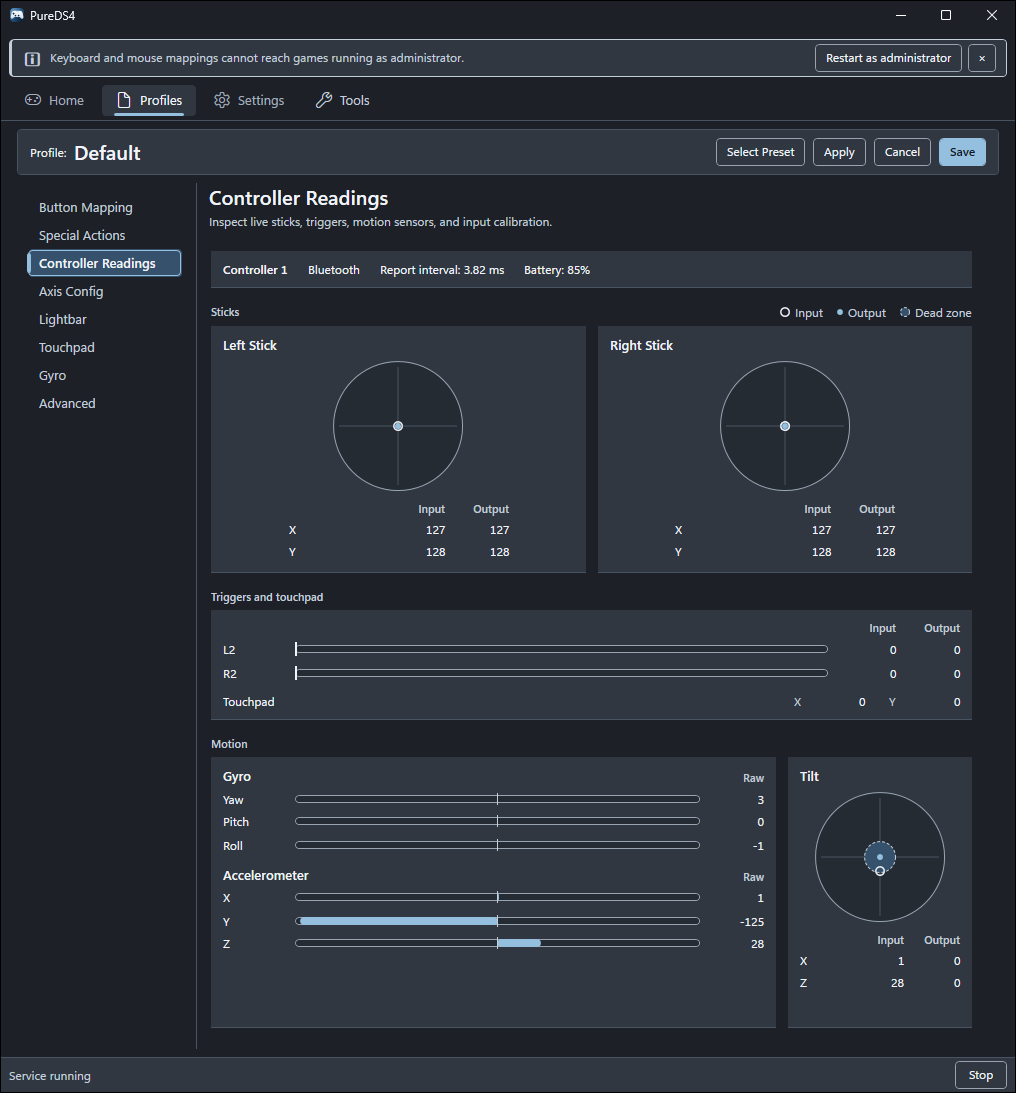
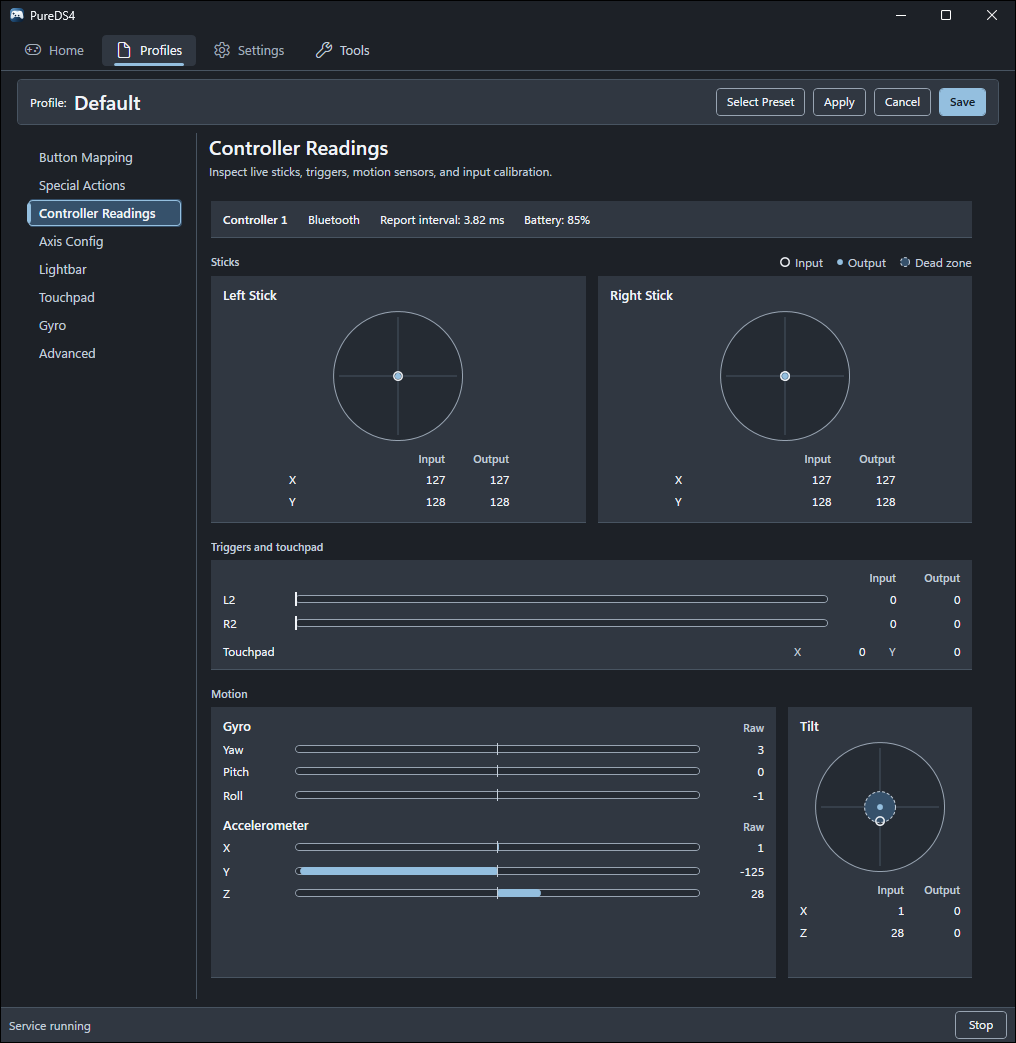
Show the light and dark profile editor in the README [skip ci]
Add Button Mapping (light) and Axis Config (dark) screenshots, and
replace the Home and Controller Readings images with copies without the
dismissible administrator notice bar.

diff --git a/README.md b/README.md
@@ -20,6 +20,11 @@ use DS4Windows.
   <img src="docs/images/screenshots/home.png" alt="PureDS4 Home showing a DS4 connected over Bluetooth, Protected status, and Xbox 360 game output" width="800">
 </a>
 
+The profile editor in light and dark:
+
+<a href="docs/images/screenshots/button-mapping-light.png"><img src="docs/images/screenshots/button-mapping-light.png" alt="PureDS4 profile editor in light theme showing the Button Mapping page with a DS4 controller map and the list of button mappings" width="395"></a>
+<a href="docs/images/screenshots/axis-config-dark.png"><img src="docs/images/screenshots/axis-config-dark.png" alt="PureDS4 profile editor in dark theme showing Axis Config rows for dead zone, sensitivity, output curve and on/off switches" width="395"></a>
+
 <details>
 <summary>More: live controller readings in the profile editor</summary>
 
